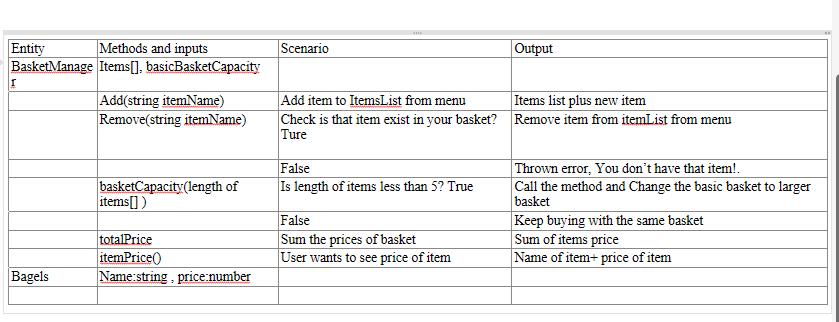
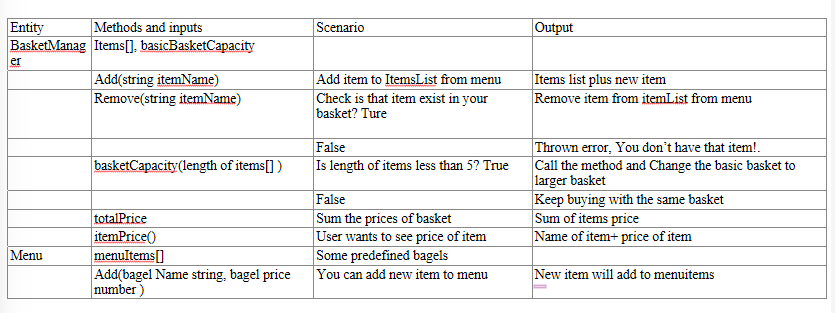
Domain Model Updated

Changed region(s): [[0.0, 0.0575, 1.0, 1.0]]

diff --git a/spec/basket.spec.js b/spec/basket.spec.js
@@ -1,3 +1,4 @@
+
 const BasketManager = require('../src/basket.js')
 
 describe('BasketManager', () => {
@@ -17,4 +18,8 @@ describe('BasketManager', () => {
   it('should be basicCap equal 5', () => {
     expect(basketManager.basicCap).toBe(5)
   })
+
+  // it('add bagel to basket', () => {
+  //   basketManager.add('chocolate')
+  // })
 })

diff --git a/src/basket.js b/src/basket.js
@@ -1,3 +1,5 @@
+const Menu = require('./menu.js')
+
 class BasketManager {
   constructor() {
     this.items = []

diff --git a/src/menu.js b/src/menu.js
@@ -1,0 +1,7 @@
+class Menu {
+  constructor() {
+    this.menuItems = []
+  }
+}
+
+module.exports = Menu
